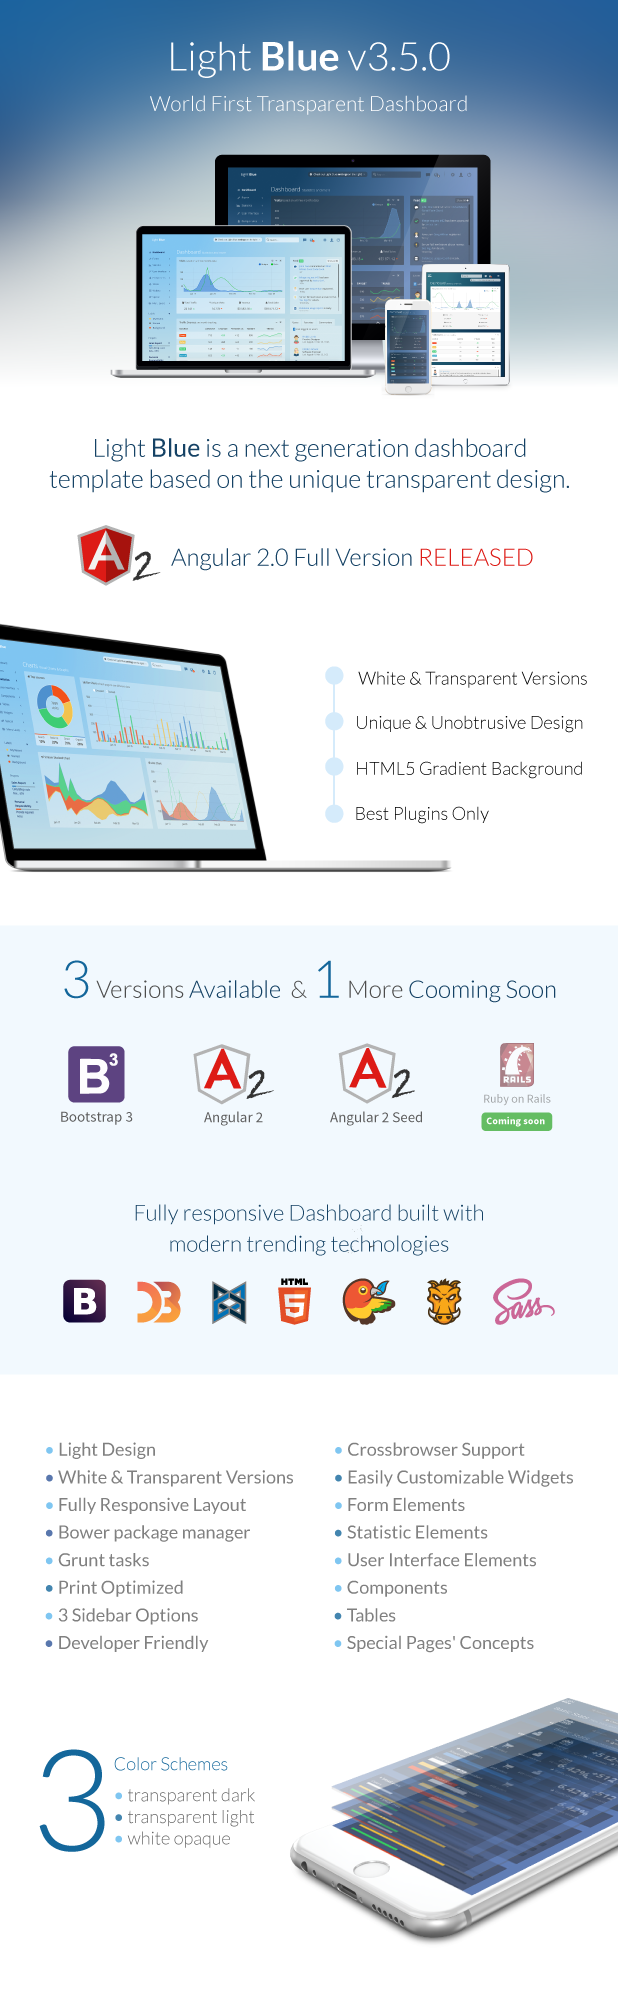
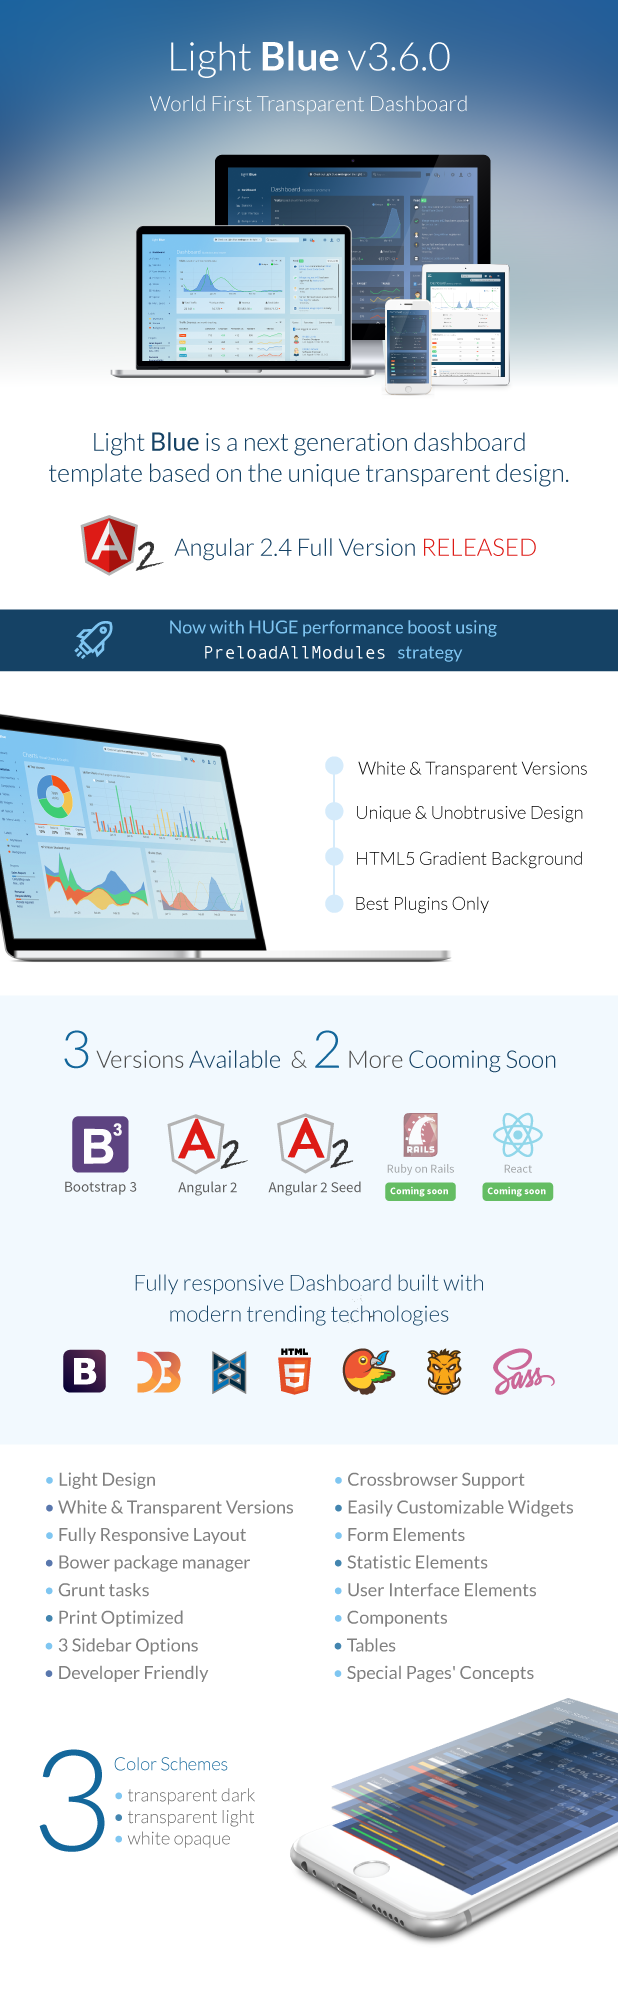
chore(package): v3.6.0

Changed region(s): [[0.0, 0.2175, 1.0, 0.8391], [0.6456, 0.0, 0.6764, 0.0311]]

diff --git a/documentation/index.html b/documentation/index.html
@@ -337,6 +337,10 @@ export class CurrentDateModule {
                         <li>- Add angular preload strategy to fix first long time app loading</li>
                         <li>- Add pages loader</li>
                     </ul>
+                    <h4><strong>Version 3.5.0</strong></h4>
+                    <ul>
+                        <li>- Angular 2.0 Full Version</li>
+                    </ul>
                     <h4><strong>Version 3.4.0</strong></h4>
                     <ul>
                         <li>- Angular 2.0 Seed Version</li>

diff --git a/readme.md b/readme.md
@@ -40,7 +40,7 @@ Next Release Plan
 -
 
   - Rails seed project
-  - .NET seed project
+  - React seed project
 
 Full feature list
 -
